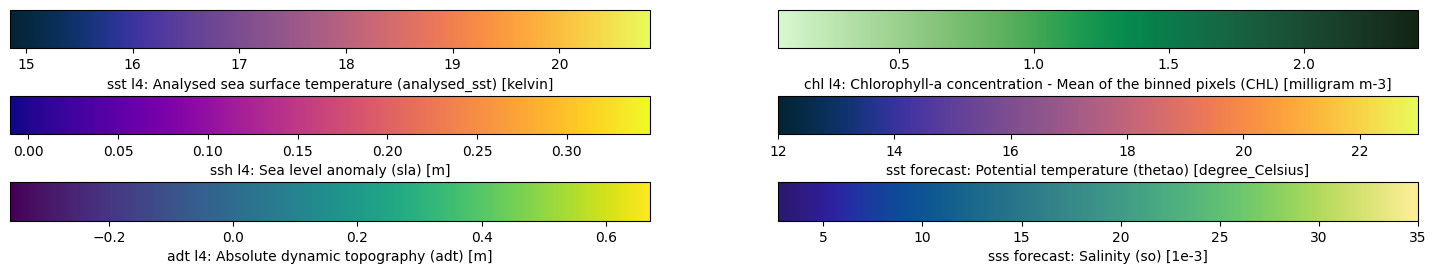
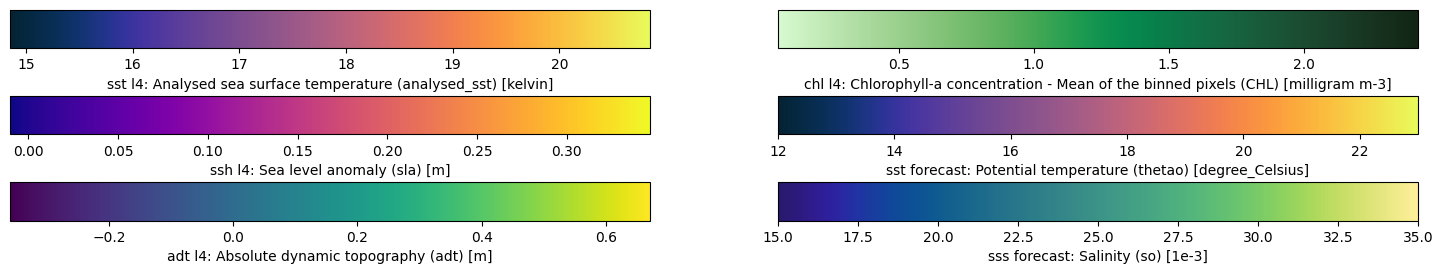
set user custom salinity limits

diff --git a/static/satellite.js b/static/satellite.js
@@ -1,14 +1,16 @@
-var sst_l4_time = '2025-08-27T00:00:00.000Z';
-var sst_l3_time = '2025-08-26T00:00:00.000Z';
-var ssh_l4_time = '2025-08-27T00:00:00.000Z';
-var adt_l4_time = '2025-08-27T00:00:00.000Z';
-var chl_l4_time = '2025-08-26T00:00:00.000Z';
-var sst_forecast_time = '2025-08-28T00:00:00.000Z';
-var sst_forecast_times = ['2025-08-28T00:00:00.000Z', '2025-08-29T00:00:00.000Z', '2025-08-30T00:00:00.000Z', '2025-08-31T00:00:00.000Z'];
-var sss_forecast_time = '2025-08-28T00:00:00.000Z';
-var sss_forecast_times = ['2025-08-28T00:00:00.000Z', '2025-08-29T00:00:00.000Z', '2025-08-30T00:00:00.000Z', '2025-08-31T00:00:00.000Z'];
+var sst_l4_time = '2025-08-28T00:00:00.000Z';
+var sst_l3_time = '2025-08-27T00:00:00.000Z';
+var ssh_l4_time = '2025-08-28T00:00:00.000Z';
+var adt_l4_time = '2025-08-28T00:00:00.000Z';
+var chl_l4_time = '2025-08-27T00:00:00.000Z';
+var sst_forecast_time = '2025-08-29T00:00:00.000Z';
+var sst_forecast_times = ['2025-08-29T00:00:00.000Z', '2025-08-30T00:00:00.000Z', '2025-08-31T00:00:00.000Z', '2025-09-01T00:00:00.000Z'];
+var sss_forecast_time = '2025-08-29T00:00:00.000Z';
+var sss_forecast_times = ['2025-08-29T00:00:00.000Z', '2025-08-30T00:00:00.000Z', '2025-08-31T00:00:00.000Z', '2025-09-01T00:00:00.000Z'];
 sst_min = 288;
 sst_max = 294;
 sst_forecast_min = 12;
 sst_forecast_max = 23;
+sss_forecast_min = 15;
+sss_forecast_max = 35;
 var graticule_dict = {'latitude': [{'start': 4, 'end': 4, 'interval': 8}, {'start': 5, 'end': 5, 'interval': 4.0}, {'start': 6, 'end': 6, 'interval': 2.0}, {'start': 7, 'end': 7, 'interval': 1.0}, {'start': 8, 'end': 8, 'interval': 0.5}, {'start': 9, 'end': 9, 'interval': 0.25}, {'start': 10, 'end': 10, 'interval': 0.125}, {'start': 11, 'end': 11, 'interval': 0.0625}, {'start': 12, 'end': 12, 'interval': 0.03125}, {'start': 13, 'end': 13, 'interval': 0.015625}, {'start': 14, 'end': 14, 'interval': 0.0078125}], 'longitude': [{'start': 4, 'end': 4, 'interval': 16}, {'start': 5, 'end': 5, 'interval': 8.0}, {'start': 6, 'end': 6, 'interval': 4.0}, {'start': 7, 'end': 7, 'interval': 2.0}, {'start': 8, 'end': 8, 'interval': 1.0}, {'start': 9, 'end': 9, 'interval': 0.5}, {'start': 10, 'end': 10, 'interval': 0.25}, {'start': 11, 'end': 11, 'interval': 0.125}, {'start': 12, 'end': 12, 'interval': 0.0625}, {'start': 13, 'end': 13, 'interval': 0.03125}, {'start': 14, 'end': 14, 'interval': 0.015625}]};

diff --git a/index.html b/index.html
@@ -118,8 +118,6 @@ var chl_l4 = L.tileLayer(template, {
 })
 
 
-var template_sst_fore =
-  'https://wmts.marine.copernicus.eu/teroWmts?SERVICE=WMTS&REQUEST=GetTile&VERSION=1.0.0&LAYER={layer}&FORMAT=image/png&TILEMATRIXSET={tileMatrixSet}&TILEMATRIX={z}&time={time}&TILEROW={y}&TILECOL={x}&STYLE=cmap:thermal,range:' + sst_forecast_min + '/' + sst_forecast_max
 
 // add location data from geojson
 
@@ -157,6 +155,7 @@ overlayMaps[ "SSH L4 " + ssh_l4_time.substr(0, 10)] = ssh_l4;
 overlayMaps[ "ADT L4 " + adt_l4_time.substr(0, 10)] = adt_l4;
 overlayMaps[ "CHL L4 " + chl_l4_time.substr(0, 10)] = chl_l4;
 
+var template_sst_fore = template + '&STYLE=cmap:thermal,range:' + sst_forecast_min + '/' + sst_forecast_max
 let len = sst_forecast_times.length;
 for (let i = 0; i < len; i++) {
 	thisTime = sst_forecast_times[i]
@@ -167,10 +166,11 @@ for (let i = 0; i < len; i++) {
 	});
 }
 
+var template_sss_fore = template + '&STYLE=cmap:haline,range:' + sss_forecast_min + '/' + sss_forecast_max
 let lenSal = sss_forecast_times.length;
 for (let i = 0; i < lenSal; i++) {
 	thisTime = sss_forecast_times[i]
-	overlayMaps[ "SSS forecast " + thisTime.substr(0, 10)] =  L.tileLayer(template, {
+	overlayMaps[ "SSS forecast " + thisTime.substr(0, 10)] =  L.tileLayer(template_sss_fore, {
 	  layer: 'BALTICSEA_ANALYSISFORECAST_PHY_003_006/cmems_mod_bal_phy_anfc_P1D-m_202411/so',
 	  time: thisTime,
 	  ...standard

diff --git a/src/satellite_setup.py b/src/satellite_setup.py
@@ -146,7 +146,7 @@ def make_color_bars(ddict):
             cmap = f"cmo.{cmap}"
         vmin = layer_dict['min_val']
         vmax = layer_dict['max_val']
-        if key[:3] in manual_limits.keys():
+        if key[:3] in manual_limits.keys() or key in manual_limits.keys():
             if 'forecast' not in key:
                 key = key[:3]
             vmin = manual_limits[key]['min']

diff --git a/src/user_variables.py b/src/user_variables.py
@@ -4,6 +4,8 @@ user_dict = {
                 'max': 294},
         "sst_forecast": {'min': 12,
                 'max': 23},
+        "sss_forecast": {'min': 15,
+                         'max': 35},
     },
    # "forecast_product_date": "2025-08-03",
    # "satellite_product_date": "2025-07-29"
